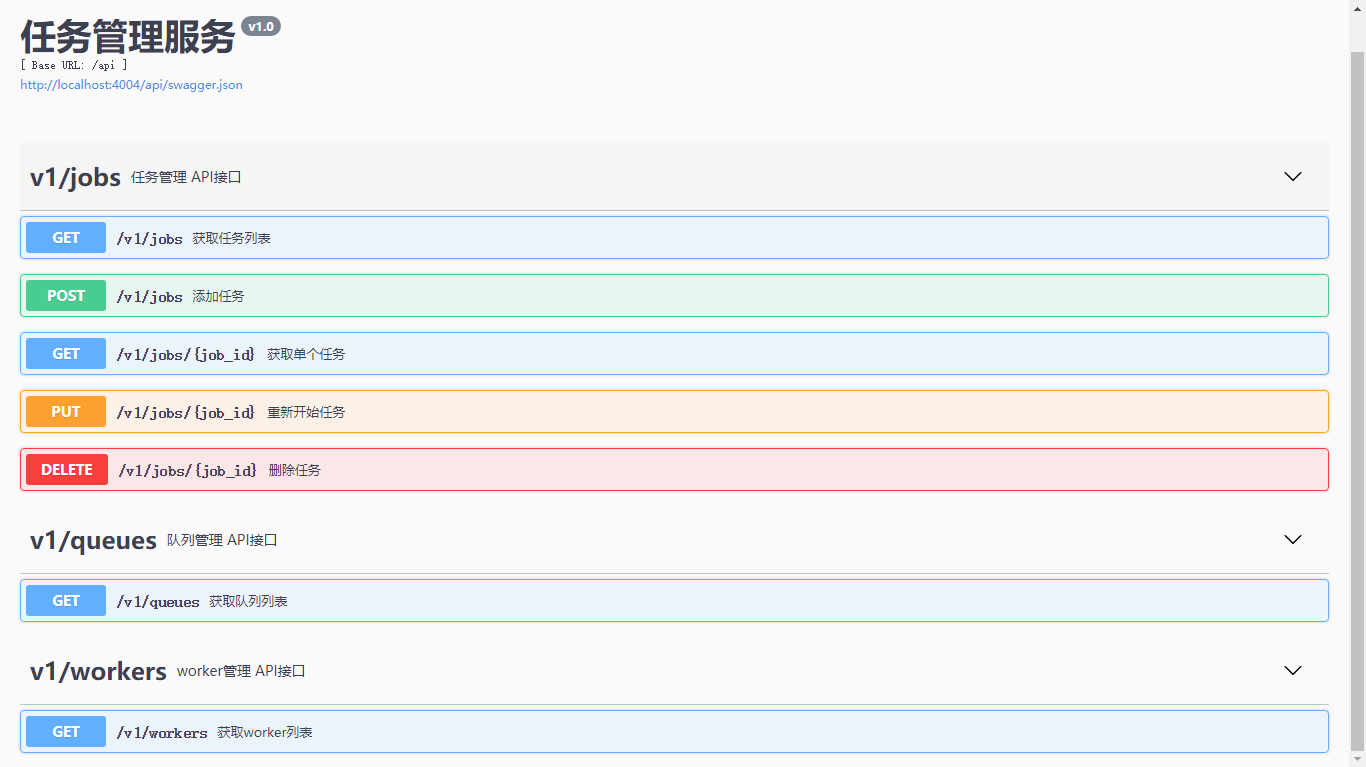
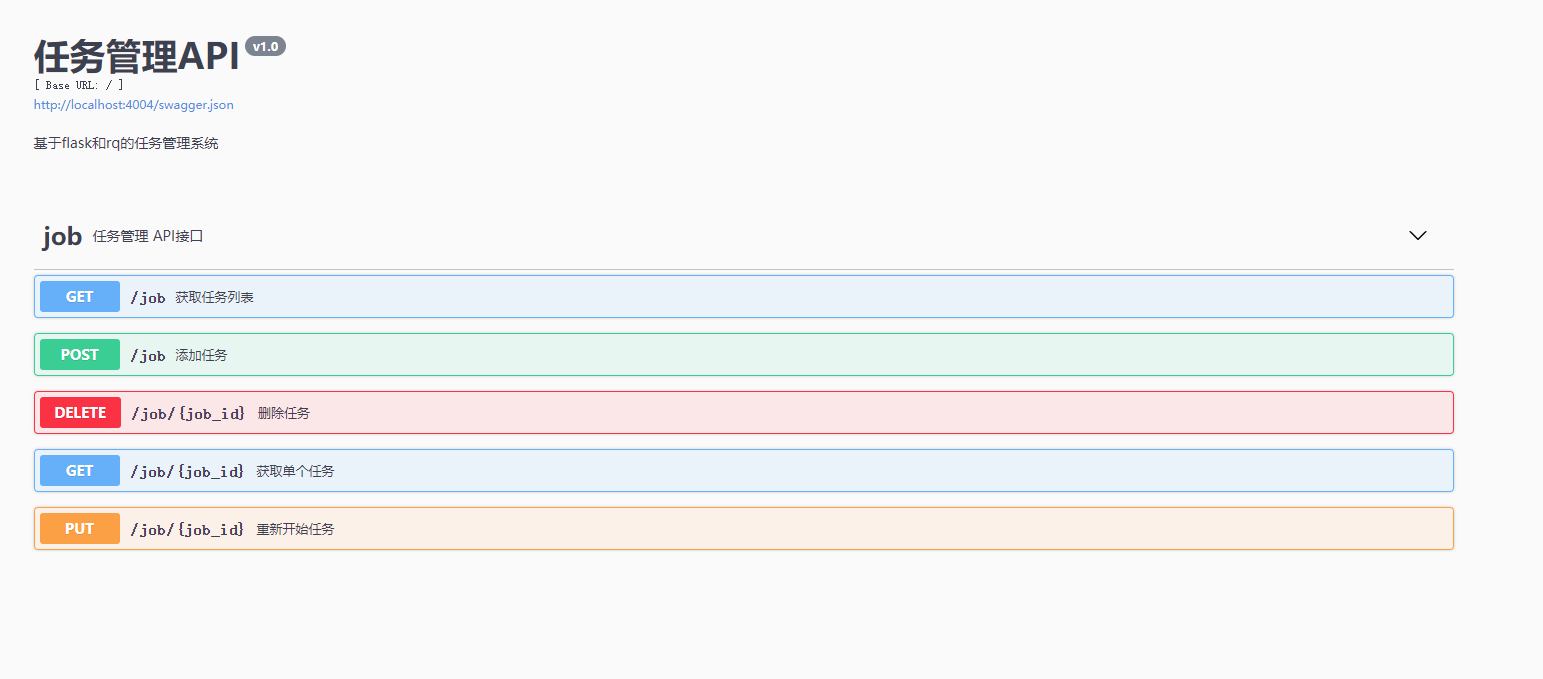
update format1

diff --git a/src/app/apis/job.py b/src/app/apis/job.py
@@ -6,53 +6,52 @@
 import traceback
 from flask import request
 from flask_restplus import Resource, Namespace, reqparse
-from rq.exceptions import NoSuchJobError
+from rq.exceptions import NoSuchJobError, InvalidJobOperation
 from rq.job import Job, requeue_job
 from rq.registry import StartedJobRegistry, FailedJobRegistry, FinishedJobRegistry, DeferredJobRegistry
-from app.defines import StatesCode, QUEUE_HELP, QUEUE_ALL_HELP, JOB_STATUS_HELP
+from app.defines import StatesCode
 from app.jobs.calc import add
-from config import Config
 from app.utils.queues import queue_dict
 from app import rq2
 from uuid import uuid4
 
-__version__ = 'v1'
-ns = Namespace(f'{__version__}/jobs', description='任务管理 API接口')
+from config import QUEUE_ALL_HELP, RQ_QUEUES_ALL, RQ_QUEUES, QUEUE_HELP, JOB_STATUS_HELP, RQ_JOB_STATUS, TIMEOUT
 
-parser1 = reqparse.RequestParser(bundle_errors=True)
-parser1.add_argument(name='queue_name', type=str, choices=tuple(Config.RQ_QUEUES_ALL), location='args', required=True,
-                     help=QUEUE_ALL_HELP)
-parser1.add_argument(name='job_status', type=str, choices=tuple(Config.RQ_JOB_STATUS), location='args', required=True,
-                     help=JOB_STATUS_HELP)
+ns = Namespace('job', description='任务管理 API接口')
 
-parser2 = reqparse.RequestParser(bundle_errors=True)
-parser2.add_argument(name='queue_name', type=str, choices=tuple(Config.RQ_QUEUES), location='form', required=True,
-                     help=QUEUE_HELP)
+job_list_param_get = reqparse.RequestParser()
+job_list_param_get.add_argument(name='queue_name', type=str, choices=RQ_QUEUES_ALL, location='args', required=True,
+                                help=QUEUE_ALL_HELP)
+job_list_param_get.add_argument(name='job_status', type=str, choices=RQ_JOB_STATUS, location='args', required=True,
+                                help=JOB_STATUS_HELP)
+job_list_param_post = reqparse.RequestParser()
+job_list_param_post.add_argument(name='queue_name', type=str, choices=RQ_QUEUES, location='form', required=True,
+                                 help=QUEUE_HELP)
 
 
 @ns.route('')
-class NewJobAPI(Resource):
+class JobListAPI(Resource):
     @ns.doc(id='get job list', description='根据任务状态、队列名称获取任务列表')
-    @ns.expect(parser1)
+    @ns.expect(job_list_param_get)
     def get(self):
         """获取任务列表"""
         args = request.args
         job_status = args.get('job_status')
         queue_name = args.get('queue_name')
-        if job_status not in Config.RQ_JOB_STATUS:
+        if job_status not in RQ_JOB_STATUS:
             return {'code': StatesCode.JOB_STATUS_NO_EXIST, 'message': '任务状态不存在！'}
-        if queue_name not in Config.RQ_QUEUES_ALL:
+        if queue_name not in RQ_QUEUES_ALL:
             return {'code': StatesCode.QUEUE_NOT_EXIST, 'message': '任务队列不存在！'}
         job_list = []
         if job_status == 'queued':
             if queue_name == 'all':
-                for queue_name in Config.RQ_QUEUES:
+                for queue_name in RQ_QUEUES:
                     job_list += queue_dict[queue_name].get_job_ids()
             else:
                 job_list = queue_dict[queue_name].get_job_ids()
         elif job_status == 'started':
             if queue_name == 'all':
-                for queue_name in Config.RQ_QUEUES:
+                for queue_name in RQ_QUEUES:
                     started_job_registry = StartedJobRegistry(queue=queue_dict[queue_name])
                     job_list += started_job_registry.get_job_ids()
             else:
@@ -60,7 +59,7 @@ class NewJobAPI(Resource):
                 job_list = started_job_registry.get_job_ids()
         elif job_status == 'finished':
             if queue_name == 'all':
-                for queue_name in Config.RQ_QUEUES:
+                for queue_name in RQ_QUEUES:
                     finished_job_registry = FinishedJobRegistry(queue=queue_dict[queue_name])
                     job_list += finished_job_registry.get_job_ids()
             else:
@@ -68,7 +67,7 @@ class NewJobAPI(Resource):
                 job_list = finished_job_registry.get_job_ids()
         elif job_status == 'failed':
             if queue_name == 'all':
-                for queue_name in Config.RQ_QUEUES:
+                for queue_name in RQ_QUEUES:
                     failed_job_registry = FailedJobRegistry(queue=queue_dict[queue_name])
                     job_list += failed_job_registry.get_job_ids()
             else:
@@ -76,7 +75,7 @@ class NewJobAPI(Resource):
                 job_list = failed_job_registry.get_job_ids()
         elif job_status == 'deferred':
             if queue_name == 'all':
-                for queue_name in Config.RQ_QUEUES:
+                for queue_name in RQ_QUEUES:
                     deferred_job_registry = DeferredJobRegistry(queue=queue_dict[queue_name])
                     job_list += deferred_job_registry.get_job_ids()
             else:
@@ -85,26 +84,26 @@ class NewJobAPI(Resource):
         return {'code': StatesCode.SUCCESS, 'data': job_list}
 
     @ns.doc(id='post job', description='添加任务')
-    @ns.expect(parser2)
+    @ns.expect(job_list_param_post)
     def post(self):
         """添加任务"""
         form = request.form
         queue_name = form.get('queue_name')
-        if queue_name not in Config.RQ_QUEUES:
+        if queue_name not in RQ_QUEUES:
             return {'code': StatesCode.QUEUE_NOT_EXIST, 'message': '任务队列不存在！'}
         job_id = str(uuid4())
         job = queue_dict[queue_name].enqueue(add, args=(1, 2, job_id), job_id=job_id,
-                                             job_timeout=Config.RQ_DEFAULT_TIMEOUT, )
-        # job = queue_dict[queue_name].enqueue(add, args=(1, '2'), job_timeout=Config.RQ_DEFAULT_TIMEOUT)  # 错误任务
+                                             job_timeout=TIMEOUT, )
+        # job = queue_dict[queue_name].enqueue(add, args=(1, '2'), job_timeout=RQ_DEFAULT_TIMEOUT)  # 错误任务
         return {'code': 0, 'data': job.get_id()}
 
 
-parser3 = reqparse.RequestParser(bundle_errors=True)
-parser3.add_argument(name='job_id', type=str, location='path', required=True, help='任务id')
+job_param = reqparse.RequestParser(bundle_errors=True)
+job_param.add_argument(name='job_id', type=str, location='path', required=True, help='任务id')
 
 
 @ns.route('/<job_id>')
-@ns.expect(parser3)
+@ns.param('job_id', '任务id', 'path', required=True, type=str)
 class JobAPI(Resource):
     @ns.doc(id='get job', description='获取单个任务详情')
     def get(self, job_id):
@@ -140,6 +139,8 @@ class JobAPI(Resource):
             requeue_job(job_id, connection=rq2.connection)
         except NoSuchJobError:
             return {'code': StatesCode.JOB_NOT_EXIST, 'message': '任务不存在！'}
+        except InvalidJobOperation:
+            return {'code': StatesCode.JOB_OPERATION_ERROR, 'message': '只有失败的任务才能重处理！'}
         except Exception as e:
             traceback.print_exc()
             return {'code': StatesCode.UNKNOWN_ERROR, 'message': f'位置错误：{str(e)}'}

diff --git a/src/config.py b/src/config.py
@@ -5,49 +5,17 @@
 
 import os
 
-basedir = os.path.abspath(os.path.dirname(__file__))
+# 配置redis
+REDIS_HOST, REDIS_PORT = os.environ.get('REDIS_PORT', 'tcp://192.168.2.28:3333')[6:].split(':')
+RQ_REDIS_DB = 0
+RQ_REDIS_URL = f'redis://{REDIS_HOST}:{REDIS_PORT}/{RQ_REDIS_DB}'
+# 配置RQ
+RQ_QUEUES = ('default', 'high', 'low')
+RQ_QUEUES_ALL = ('all', 'high', 'default', 'low')
+RQ_JOB_STATUS = ('queued', 'started', 'deferred', 'finished', 'failed')
 
+QUEUE_HELP = 'default：默认队列\nhigh：优先队列\nlow：低级队列'
+QUEUE_ALL_HELP = 'all：全部\nhigh：优先队列\ndefault：默认队列\nlow：低级队列'
+JOB_STATUS_HELP = 'queued：排队\nstarted：开始\ndeferred:推迟\nfinished：完成\nfailed：失败'
 
-class Config(object):
-    """所有配置类的父类，通用的配置写在这里"""
-    SECRET_KEY = os.environ.get('SECRET_KEY') or 'hard to guess string'
-    # SQLALCHEMY_COMMIT_ON_TEARDOWN = True
-    SQLALCHEMY_TRACK_MODIFICATIONS = False
-    BUNDLE_ERRORS = True
-    UPLOAD_TMP_FILE = os.path.join(basedir, 'tmp')
-
-    # 配置redis
-    REDIS_HOST, REDIS_PORT = os.environ.get('REDIS_PORT', 'tcp://localhost:3333')[6:].split(':')
-    RQ_REDIS_DB = 0
-    RQ_REDIS_URL = f'redis://{REDIS_HOST}:{REDIS_PORT}/{RQ_REDIS_DB}'
-    # 配置RQ
-    RQ_QUEUES = ['high', 'default', 'low']
-    RQ_QUEUES_ALL = ['all', 'high', 'default', 'low']
-    RQ_JOB_STATUS = ['queued', 'started', 'finished', 'failed','deferred']
-    RQ_DEFAULT_TIMEOUT = 3600 * 24  # 1天
-
-
-class DevelopmentConfig(Config):
-    DEBUG = True
-    SQLALCHEMY_DATABASE_URI = \
-        'sqlite:///' + os.path.join(basedir, 'data-dev.db')
-
-
-class TestingConfig(Config):
-    TESTING = True
-    SQLALCHEMY_DATABASE_URI = \
-        'sqlite:///' + os.path.join(basedir, 'data-test.db')
-
-
-class ProductionConfig(Config):
-    SQLALCHEMY_DATABASE_URI = \
-        'sqlite:///' + os.path.join(basedir, 'data.db')
-
-
-config = {
-    'development': DevelopmentConfig,
-    'testing': TestingConfig,
-    'production': ProductionConfig,
-}
-
-CONFIG_LEVEL = 'production'
+TIMEOUT = 3600 * 24  # 1天

diff --git a/src/app/apis/__init__.py b/src/app/apis/__init__.py
@@ -5,14 +5,13 @@
 
 from flask_restplus import Api
 
-# 实例化 Blueprint 类，两个参数分别为蓝本的名字和蓝本所在包或模块，第二个通常填 __name__ 即可
-# api_blueprint = Blueprint('apis', __name__)
-api = Api(version='v1.0', title='任务管理服务', description='', doc='/api', prefix='/api')
+api = Api(
+    version='v1.0',
+    title='任务管理API',
+    description='基于flask和rq的任务管理系统',
+    doc='/swagger',
+)
 
 from .job import ns as job_ns
-from .queue import ns as queue_ns
-from .worker import ns as worker_ns
 
 api.add_namespace(job_ns)
-api.add_namespace(queue_ns)
-api.add_namespace(worker_ns)

diff --git a/src/app/__init__.py b/src/app/__init__.py
@@ -8,23 +8,20 @@ from flask import Flask
 from flask_cors import CORS
 from flask_sqlalchemy import SQLAlchemy
 from flask_rq2 import RQ
-from config import config
+import config
 
 db = SQLAlchemy()
 rq2 = RQ()
 
 
-def create_app(config_name):
+def create_app():
     app = Flask(__name__)
-    app.config.from_object(config[config_name])
+    app.config.from_object(config)
     CORS(app)
     db.init_app(app)
     rq2.init_app(app)
 
     from .apis import api
     api.init_app(app)
-    # 注册蓝本
-    # from .apis import api_blueprint as api_blueprint1
-    # app.register_blueprint(blueprint=api_blueprint1)
 
     return app

diff --git a/src/app/defines/__init__.py b/src/app/defines/__init__.py
@@ -10,9 +10,4 @@ class StatesCode:
     QUEUE_NOT_EXIST = 101  # 队列不存在
     JOB_NOT_EXIST = 102  # 任务不存在
     JOB_STATUS_NO_EXIST = 103  # 任务状态不存在
-
-
-QUEUE_HELP = 'high：优先队列\ndefault：默认队列\nlow：低级队列'
-QUEUE_ALL_HELP = 'all：全部\nhigh：优先队列\ndefault：默认队列\nlow：低级队列'
-
-JOB_STATUS_HELP = 'queued：排队\nstarted：开始\nfinished：完成\nfailed：失败'
+    JOB_OPERATION_ERROR=104

diff --git a/src/app/utils/queues.py b/src/app/utils/queues.py
@@ -11,11 +11,8 @@ high_queue = rq2.get_queue('high')  # 优先队列
 
 low_queue = rq2.get_queue('low')  # 低级队列
 
-pause_queue = rq2.get_queue('pause')  # 暂停队列
-
 queue_dict = {
     "default": default_queue,  # 默认队列
     "high": high_queue,  # 优先队列
     "low": low_queue,
-    "pause": pause_queue,  # 暂停队列
 }

diff --git a/src/app/webapp.py b/src/app/webapp.py
@@ -5,8 +5,7 @@
 
 from app import create_app
 
-
-application = create_app('production')
+application = create_app()
 
 if __name__ == '__main__':
     application.run(host='0.0.0.0', port='4004', debug=True)

diff --git a/src/app/models/user.py b/src/app/models/user.py
@@ -1,8 +1,7 @@
-# coding=utf-8
-'''
-@time=2019/1/14 20:14
-@author=llc
-'''
+# -*- coding: utf-8 -*-
+# @Time    : 2019/5/8 16:15
+# @Author  : llc
+# @File    : __init__.py
 
 from app import db
 

diff --git a/src/app/jobs/__init__.py b/src/app/jobs/__init__.py
@@ -1,4 +1,4 @@
 # -*- coding: utf-8 -*-
 # @Time    : 2019/5/8 16:15
 # @Author  : llc
-# @File    : __init__.py.py
+# @File    : __init__.py

diff --git a/README.md b/README.md
@@ -1,10 +1,6 @@
 # Flask-RQ2-demo
-使用rq和Flask-RQ2的一个小例子，包含三个模块：
 
-- Job管理
-
-- Queue管理
-- Worker管理
+基于rq和Flask-RQ2的一个小例子
 
 ## 截图：
 
